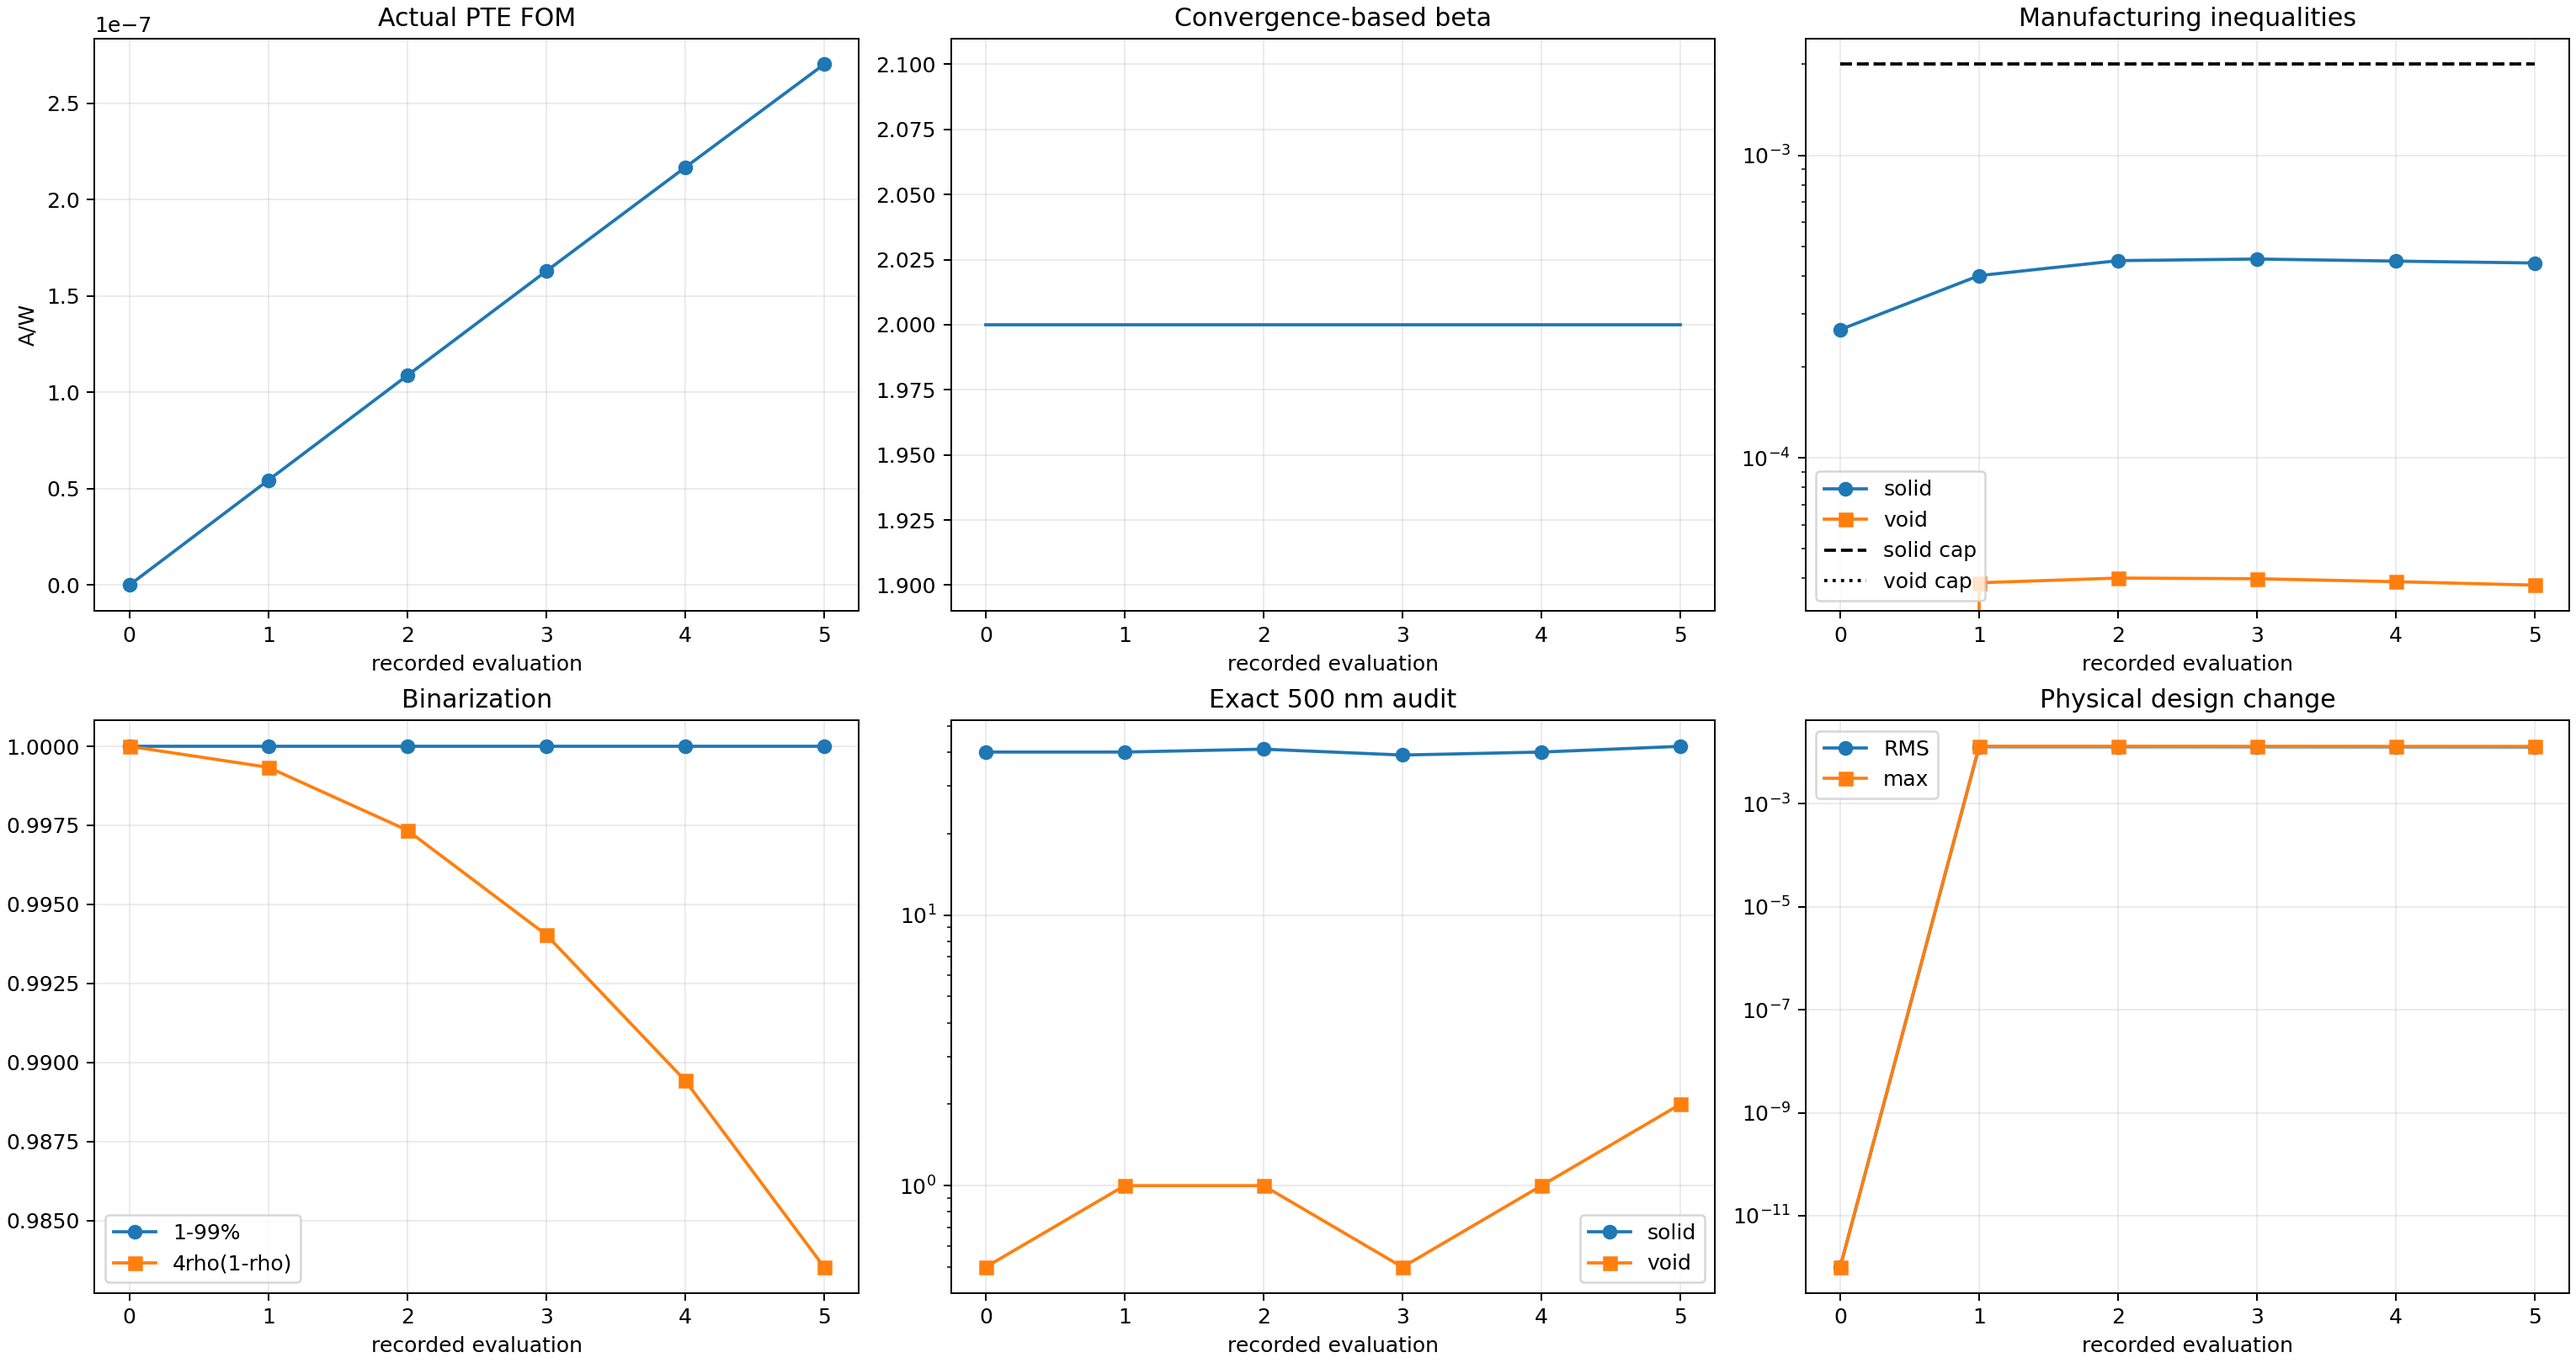
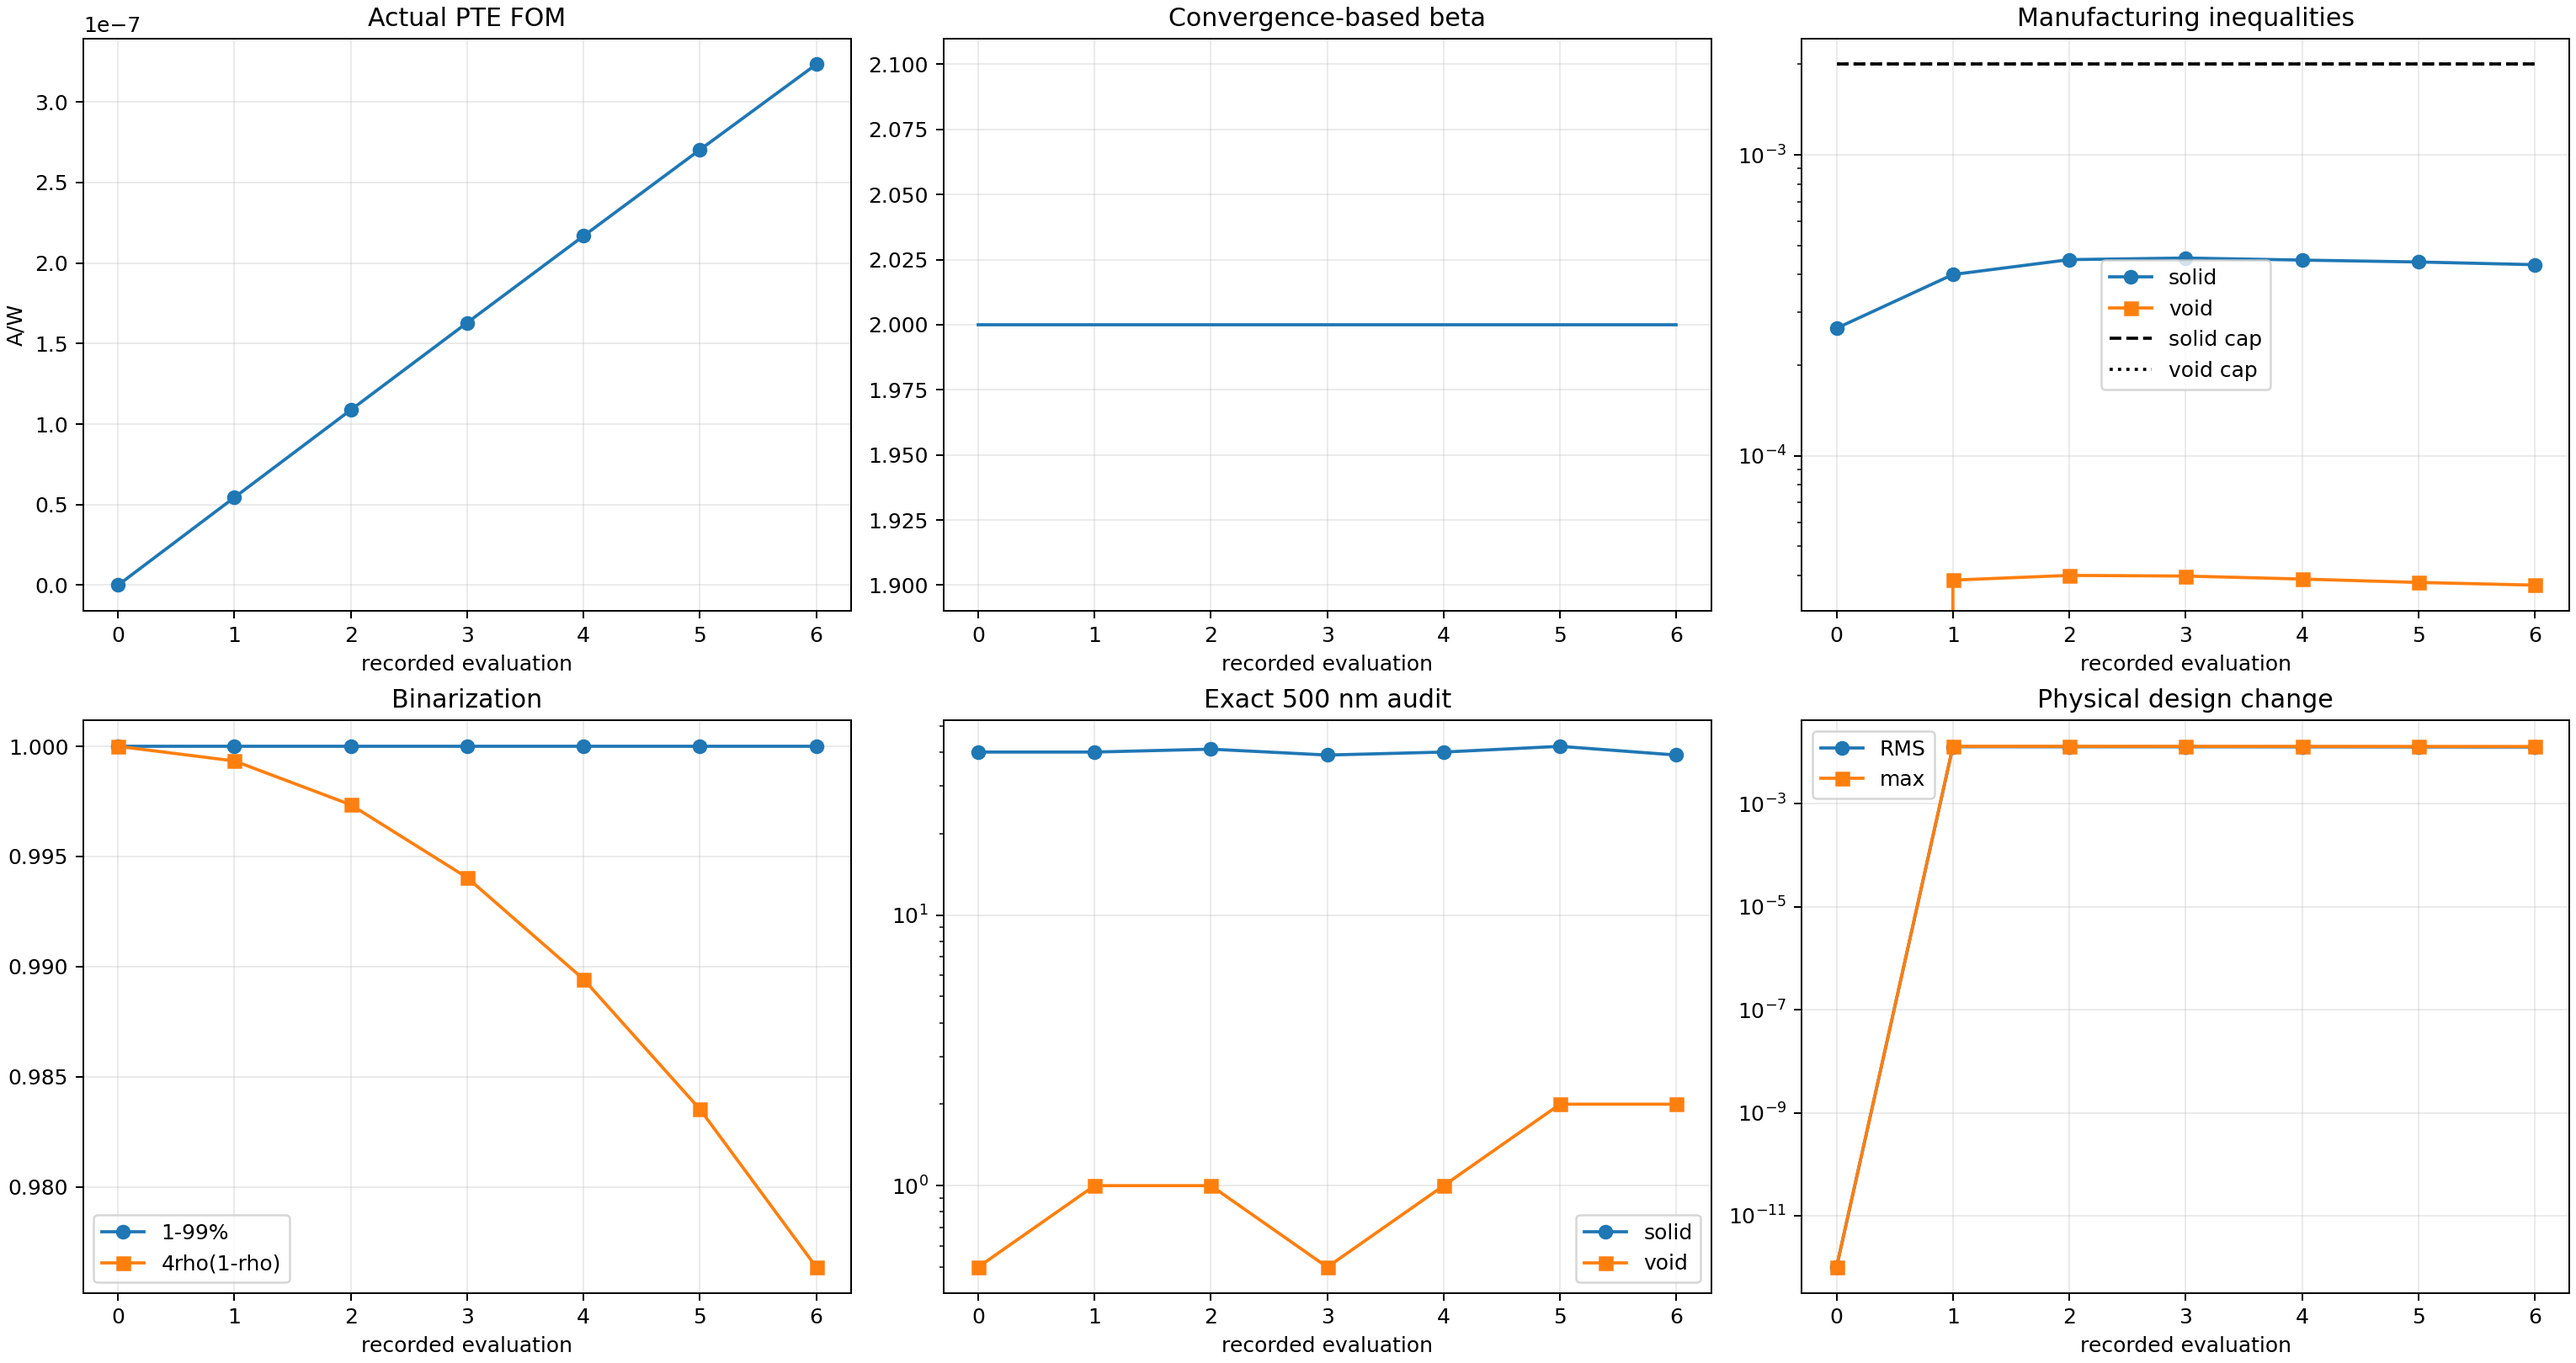
Record Run 005 run009_Ea_uniform_b002_s006_g006_accepted_mma

diff --git a/photothermal_pte/optimization_runs/run_009_uniform_Ea_from_scratch/results/OPTIMIZATION_REPORT.md b/photothermal_pte/optimization_runs/run_009_uniform_Ea_from_scratch/results/OPTIMIZATION_REPORT.md
@@ -2,12 +2,12 @@
 
 Status: `RUNNING_EXACT_UNIFORM_EA_OBJECTIVE_FIRST_OPTIMIZATION`
 
-Current stage: beta=2, accepted stage iteration=5, global iteration=5.
+Current stage: beta=2, accepted stage iteration=6, global iteration=6.
 
 Constraint contract: `soft_disk_opening_500nm_from_iteration_zero_v5`.
 
-Actual FOM: `2.703239852646e-07 A/W`. Fixed-cap solid/void constraints: `4.408106e-04` / `3.796509e-05` with caps `2.000000e-03` / `2.000000e-03`.
+Actual FOM: `3.233758371604e-07 A/W`. Fixed-cap solid/void constraints: `4.317726e-04` / `3.719188e-05` with caps `2.000000e-03` / `2.000000e-03`.
 
-Exact 500 nm bad cells: solid `42`, void `2`. Stage convergence: `False` (need at least 8 accepted updates).
+Exact 500 nm bad cells: solid `39`, void `2`. Stage convergence: `False` (need at least 8 accepted updates).
 
 Beta advances only after the stage FOM/density plateau. The run is not complete until the projected-binary and exact 500 nm gates pass and a fresh thresholded-binary GPU/CUDA evaluation succeeds.
